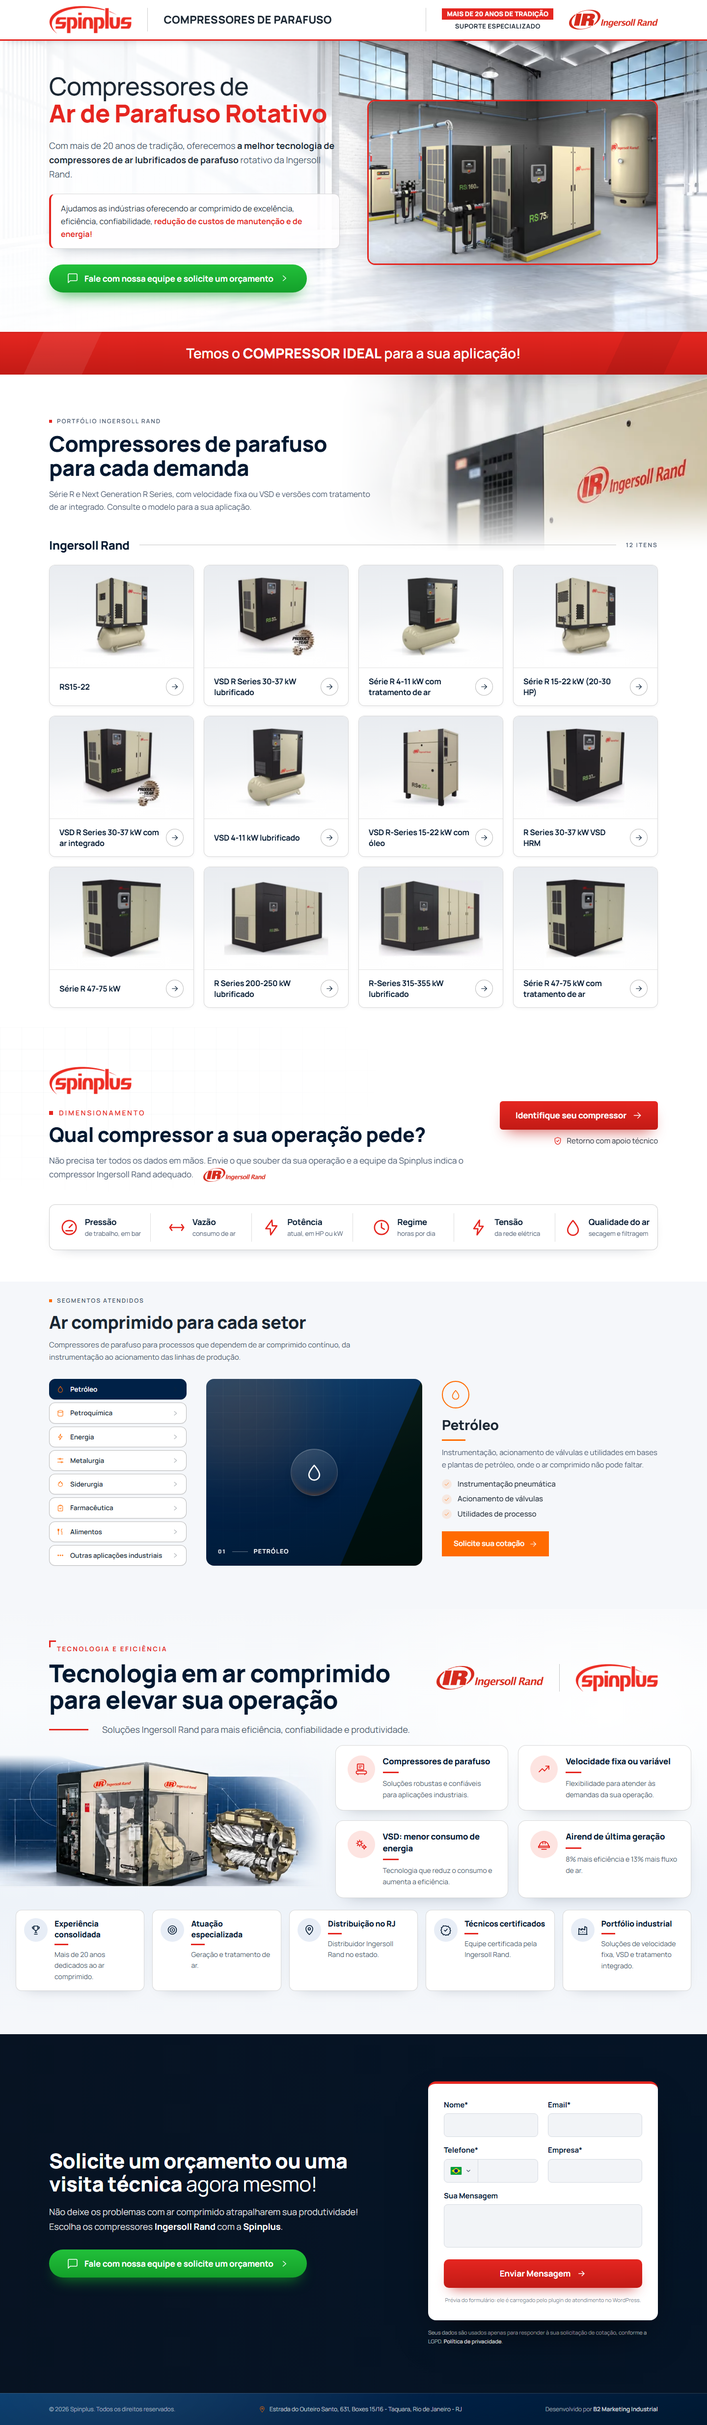
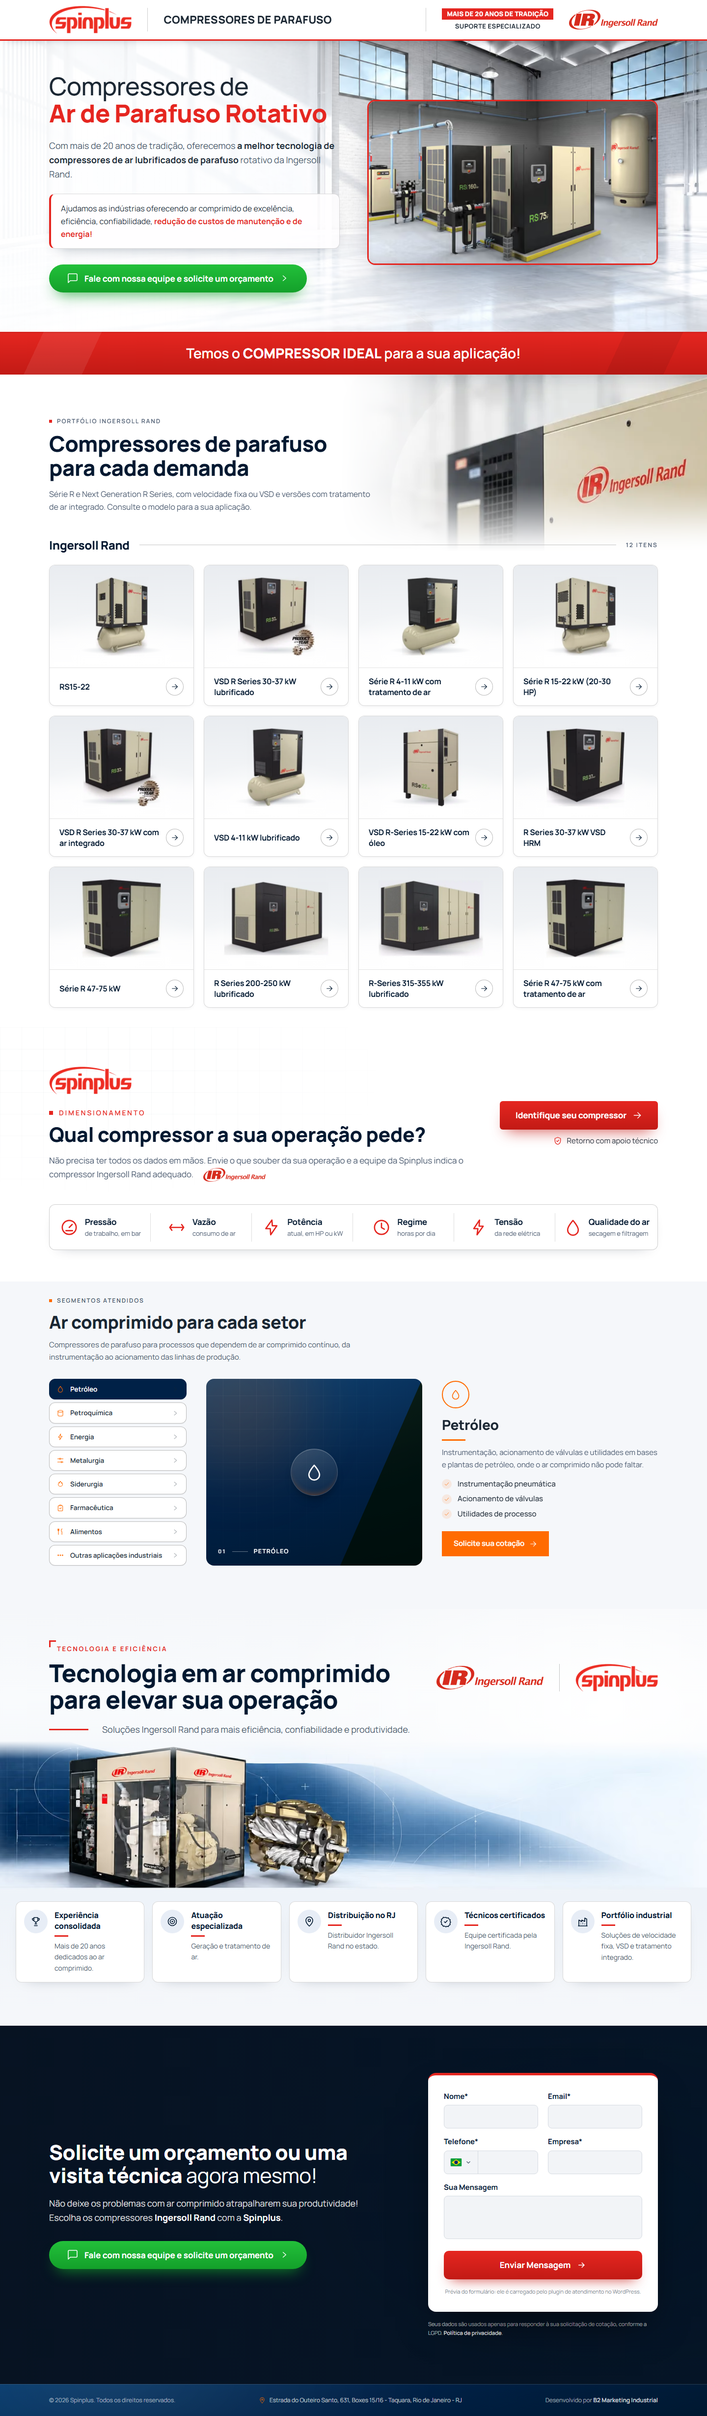
feat: diferenciais com faixa larga do compressor, sem os cards de tecnologia
Segunda versão do modelo do cliente: fundo técnico atravessando a seção, compressor aberto e airend à esquerda, 5 diferenciais na base.

diff --git a/src/data/sections/diferenciais.ts b/src/data/sections/diferenciais.ts
@@ -2,9 +2,8 @@
  * Dados da seção "Diferenciais" (biblioteca B2, fase: autoridade).
  *
  * Spinplus: layout aprovado pelo cliente em 15/10/2026 — título de tecnologia com as
- * duas marcas, visual do compressor aberto com o airend, 4 cards de tecnologia
- * (clicáveis, abrem o atendimento) e os 5 diferenciais do briefing na base. São 5
- * exatos: o grid é `lg:grid-cols-5`.
+ * duas marcas, faixa larga com o compressor aberto e o airend sobre fundo técnico, e
+ * os 5 diferenciais do briefing na base. São 5 exatos: o grid é `xl:grid-cols-5`.
  */
 import type { IconName } from '@data/icons'
 import type { Photo } from '@data/types'
@@ -18,11 +17,6 @@ export interface Reason {
   description: string
 }
 
-export interface Feature extends Reason {
-  /** Vira o `data-cta` do card: `diferenciais-{id}`. */
-  id: string
-}
-
 export const why = {
   eyebrow: 'Tecnologia e eficiência',
   /** Cada item é uma linha do H2 (quebra forçada no desktop). */
@@ -32,32 +26,6 @@ export const why = {
     src: visual,
     alt: 'Compressor de parafuso Ingersoll Rand aberto ao lado de um airend em corte, com os rotores à mostra',
   },
-  features: [
-    {
-      id: 'parafuso',
-      icon: 'compressor',
-      title: 'Compressores de parafuso',
-      description: 'Soluções robustas e confiáveis para aplicações industriais.',
-    },
-    {
-      id: 'velocidade',
-      icon: 'trend-up',
-      title: 'Velocidade fixa ou variável',
-      description: 'Flexibilidade para atender às demandas da sua operação.',
-    },
-    {
-      id: 'vsd',
-      icon: 'gears',
-      title: 'VSD: menor consumo de energia',
-      description: 'Tecnologia que reduz o consumo e aumenta a eficiência.',
-    },
-    {
-      id: 'airend',
-      icon: 'hard-hat',
-      title: 'Airend de última geração',
-      description: '8% mais eficiência e 13% mais fluxo de ar.',
-    },
-  ],
   reasons: [
     {
       icon: 'trophy',
@@ -90,6 +58,5 @@ export const why = {
   titleLines: readonly string[]
   text: string
   visual: Photo
-  features: readonly [Feature, Feature, Feature, Feature]
   reasons: readonly [Reason, Reason, Reason, Reason, Reason]
 }

diff --git a/src/data/icons.ts b/src/data/icons.ts
@@ -48,15 +48,6 @@ export const iconPaths = {
   wrench:
     '<path d="M14.7 6.3a4.5 4.5 0 0 0-6 5.3L3.5 16.8l3.2 3.2 5.2-5.2a4.5 4.5 0 0 0 5.3-6l-2.9 2.9-2.4-.6-.6-2.4 2.9-2.9Z"/>',
   clock: '<circle cx="12" cy="12" r="8.5"/><path d="M12 7v5.2l3.5 2"/>',
-  /** Compressor de parafuso: gabinete com painel (Spinplus, diferenciais). */
-  compressor:
-    '<rect x="5" y="3" width="11" height="10" rx="1"/><path d="M8 6.5h5M8 9.5h3"/><rect x="3" y="15" width="18" height="5" rx="2.5"/><path d="M6 20v1.5M18 20v1.5"/>',
-  /** Engrenagens: acionamento VSD (Spinplus, diferenciais). */
-  gears:
-    '<circle cx="9" cy="10" r="3"/><path d="M9 4.5v1.6M9 13.9v1.6M3.5 10h1.6M12.9 10h1.6M5.1 6.1l1.1 1.1M11.8 12.8l1.1 1.1M5.1 13.9l1.1-1.1M11.8 7.2l1.1-1.1"/><circle cx="17" cy="16.5" r="2"/><path d="M17 12.8v1.2M17 19v1.2M13.3 16.5h1.2M19.5 16.5h1.2"/>',
-  /** Capacete de técnico (Spinplus, diferenciais). */
-  'hard-hat':
-    '<path d="M4 15a8 8 0 0 1 16 0"/><path d="M2.5 15h19v2.5h-19z"/><path d="M10 7.2V11M14 7.2V11"/><path d="M8 20.5h8"/>',
   /** Troféu: experiência consolidada (Spinplus, diferenciais). */
   trophy:
     '<path d="M8 4h8v5a4 4 0 0 1-8 0V4Z"/><path d="M8 6H5a3 3 0 0 0 3 4M16 6h3a3 3 0 0 1-3 4"/><path d="M12 13v4M9 20.5h6M10 17h4"/>',

diff --git a/docs/BRIEFING.md b/docs/BRIEFING.md
@@ -142,33 +142,33 @@ Aprovada pelo usuário em 15/10/2026 com a opção "inferir e publicar": Apoio e
 | Fundo do hero   | `src/assets/hero-fundo.jpg` | confirmado | galpão claro com janelas enviado pelo usuário em 15/10/2026 (1870×841), sob véu branco à esquerda   |
 | Logos de marcas | —                           | removido   | entrada 7: só o nome                                                                                |
 
-| Asset                             | Arquivo                                            | Status     | Observação                                                                                                                                  |
-| --------------------------------- | -------------------------------------------------- | ---------- | ------------------------------------------------------------------------------------------------------------------------------------------- |
-| Fotos da vitrine                  | `src/assets/vitrine/produto-01…12.jpg`             | confirmado | links do briefing; originais 300×300                                                                                                        |
-| Visual dos diferenciais           | `src/assets/diferenciais/tecnologia-ingersoll.jpg` | provisório | compressor aberto + airend em corte, recortado do modelo de layout enviado pelo usuário (1024×420); trocar pelo original em alta, se houver |
-| Destaque da vitrine               | `src/assets/vitrine/destaque-ingersoll.jpg`        | provisório | recortado do modelo de layout enviado pelo usuário (716×300); trocar pelo arquivo original em alta, se houver                               |
-| Desenho técnico (dimensionamento) | `src/assets/identificar/esboco-sala.png`           | confirmado | gerado por detecção de bordas da foto da sala de compressores (`heroBg.png`), 1600×750                                                      |
+| Asset                             | Arquivo                                            | Status     | Observação                                                                                                                                                                |
+| --------------------------------- | -------------------------------------------------- | ---------- | ------------------------------------------------------------------------------------------------------------------------------------------------------------------------- |
+| Fotos da vitrine                  | `src/assets/vitrine/produto-01…12.jpg`             | confirmado | links do briefing; originais 300×300                                                                                                                                      |
+| Visual dos diferenciais           | `src/assets/diferenciais/tecnologia-ingersoll.jpg` | provisório | faixa com compressor aberto + airend em corte sobre fundo técnico, recortada do modelo de layout enviado pelo usuário (1983×416); trocar pelo original em alta, se houver |
+| Destaque da vitrine               | `src/assets/vitrine/destaque-ingersoll.jpg`        | provisório | recortado do modelo de layout enviado pelo usuário (716×300); trocar pelo arquivo original em alta, se houver                                                             |
+| Desenho técnico (dimensionamento) | `src/assets/identificar/esboco-sala.png`           | confirmado | gerado por detecção de bordas da foto da sala de compressores (`heroBg.png`), 1600×750                                                                                    |
 
 ## Desvios do padrão
 
 Aprovados pelo usuário em 15/10/2026, a partir do modelo de layout que enviou para o topo da página.
 
-| Peça            | O que muda em relação ao padrão B2                                                                                                                                                                                                                                                                                                                 | Consequência                                                                                                                                                                                                                                                     |
-| --------------- | -------------------------------------------------------------------------------------------------------------------------------------------------------------------------------------------------------------------------------------------------------------------------------------------------------------------------------------------------- | ---------------------------------------------------------------------------------------------------------------------------------------------------------------------------------------------------------------------------------------------------------------- |
-| Header          | fundo branco com filete vermelho, logo sem placa pendurada, selo "Mais de 20 anos de tradição / Suporte especializado" e logo Ingersoll Rand; **sem botão de cotação**                                                                                                                                                                             | some o CTA `header-cta`; o CTA do hero fica logo abaixo                                                                                                                                                                                                          |
-| Hero            | claro, duas colunas (texto + foto emoldurada), H1 "Compressores de Ar de Parafuso Rotativo", botão verde, faixa vermelha "Temos o COMPRESSOR IDEAL para a sua aplicação!"; **sem coluna de chat**                                                                                                                                                  | o shortcode do chat não aparece no hero; atendimento pelo botão `btn-slave-whats` (`hero-primary`)                                                                                                                                                               |
-| Copy            | CTA e textos do material antigo do cliente ("Fale com nossa equipe…", "a melhor tecnologia…")                                                                                                                                                                                                                                                      | o briefing recomendava não reaproveitá-los; prevalece o pedido do cliente                                                                                                                                                                                        |
-| Cores           | vermelho da marca (`brand-red` #e52620) e verde do botão (`cta-green`) no header e no hero                                                                                                                                                                                                                                                         | o restante da página segue com o laranja do padrão                                                                                                                                                                                                               |
-| Verificação     | `scripts/check-lp.mjs` (A8 e especificação de LOGO/heroBg) passa a conferir as assinaturas desta versão                                                                                                                                                                                                                                            | o CI continua bloqueando alteração acidental de Header e Hero                                                                                                                                                                                                    |
-| Fonte           | Manrope servida pela própria página (`src/styles/fonts/`, pré-carregada no Layout) em vez do Google Fonts                                                                                                                                                                                                                                          | sem troca de fonte após a primeira pintura: CLS 0 (antes 0,18 no Lighthouse do CI)                                                                                                                                                                               |
-| Vitrine         | layout do cliente: foto em close no canto (desktop), título em duas linhas, marcador e detalhes em vermelho, linha no cabeçalho da prateleira, cards com palco de estúdio e produtos maiores                                                                                                                                                       | `ProductShowcase.astro` editado na LP: **`npm run compose` o sobrescreve** com o da biblioteca — restaurar pelo git depois de recompor                                                                                                                           |
-| Cotação         | faixa escura com a foto da sala de compressores; "Solicite um orçamento ou uma visita técnica agora mesmo!", texto e botão verde (`cotacao-primary`) à esquerda; formulário num card branco com filete vermelho à direita; **sem os 3 selos e sem o botão "Chamar no WhatsApp"**                                                                   | o CTA `cotacao-whatsapp` virou `cotacao-primary` (atualizar no GTM). O formulário segue sendo o shortcode do plugin, com campos estilizados; onde o plugin não roda (Vercel) aparece uma prévia visual com aviso, sem campos de verdade                          |
-| Dimensionamento | seção clara em vez do painel navy: desenho técnico da sala à direita, logo Spinplus, marcador e "DIMENSIONAMENTO" em vermelho, logo Ingersoll Rand ao lado do texto, botão vermelho e faixa branca com os 6 dados (ícone `gauge` acrescentado ao catálogo para Pressão)                                                                            | a página fica com um só bloco navy no miolo (Diferenciais); o `check:lp` não acusa porque lê o manifesto. `SupportPanel.astro` editado na LP: **`npm run compose` o sobrescreve** — restaurar pelo git                                                           |
-| Diferenciais    | seção clara: "Tecnologia em ar comprimido para elevar sua operação" com as logos Ingersoll Rand e Spinplus, visual do compressor aberto com o airend sangrando à esquerda, 4 cards de tecnologia clicáveis e os 5 diferenciais na base (textos ajustados ao modelo); ícones `compressor`, `gears`, `hard-hat` e `trophy` acrescentados ao catálogo | deixa de ser bloco navy: a página não tem mais bloco navy no miolo. O CTA `diferenciais-cta` virou `diferenciais-{id}` nos 4 cards (`lp.manifest.json` ajustado à mão). `WhyBrand.astro` editado na LP: **`npm run compose` o sobrescreve** — restaurar pelo git |
+| Peça            | O que muda em relação ao padrão B2                                                                                                                                                                                                                                                                                                                              | Consequência                                                                                                                                                                                                                                                      |
+| --------------- | --------------------------------------------------------------------------------------------------------------------------------------------------------------------------------------------------------------------------------------------------------------------------------------------------------------------------------------------------------------- | ----------------------------------------------------------------------------------------------------------------------------------------------------------------------------------------------------------------------------------------------------------------- |
+| Header          | fundo branco com filete vermelho, logo sem placa pendurada, selo "Mais de 20 anos de tradição / Suporte especializado" e logo Ingersoll Rand; **sem botão de cotação**                                                                                                                                                                                          | some o CTA `header-cta`; o CTA do hero fica logo abaixo                                                                                                                                                                                                           |
+| Hero            | claro, duas colunas (texto + foto emoldurada), H1 "Compressores de Ar de Parafuso Rotativo", botão verde, faixa vermelha "Temos o COMPRESSOR IDEAL para a sua aplicação!"; **sem coluna de chat**                                                                                                                                                               | o shortcode do chat não aparece no hero; atendimento pelo botão `btn-slave-whats` (`hero-primary`)                                                                                                                                                                |
+| Copy            | CTA e textos do material antigo do cliente ("Fale com nossa equipe…", "a melhor tecnologia…")                                                                                                                                                                                                                                                                   | o briefing recomendava não reaproveitá-los; prevalece o pedido do cliente                                                                                                                                                                                         |
+| Cores           | vermelho da marca (`brand-red` #e52620) e verde do botão (`cta-green`) no header e no hero                                                                                                                                                                                                                                                                      | o restante da página segue com o laranja do padrão                                                                                                                                                                                                                |
+| Verificação     | `scripts/check-lp.mjs` (A8 e especificação de LOGO/heroBg) passa a conferir as assinaturas desta versão                                                                                                                                                                                                                                                         | o CI continua bloqueando alteração acidental de Header e Hero                                                                                                                                                                                                     |
+| Fonte           | Manrope servida pela própria página (`src/styles/fonts/`, pré-carregada no Layout) em vez do Google Fonts                                                                                                                                                                                                                                                       | sem troca de fonte após a primeira pintura: CLS 0 (antes 0,18 no Lighthouse do CI)                                                                                                                                                                                |
+| Vitrine         | layout do cliente: foto em close no canto (desktop), título em duas linhas, marcador e detalhes em vermelho, linha no cabeçalho da prateleira, cards com palco de estúdio e produtos maiores                                                                                                                                                                    | `ProductShowcase.astro` editado na LP: **`npm run compose` o sobrescreve** com o da biblioteca — restaurar pelo git depois de recompor                                                                                                                            |
+| Cotação         | faixa escura com a foto da sala de compressores; "Solicite um orçamento ou uma visita técnica agora mesmo!", texto e botão verde (`cotacao-primary`) à esquerda; formulário num card branco com filete vermelho à direita; **sem os 3 selos e sem o botão "Chamar no WhatsApp"**                                                                                | o CTA `cotacao-whatsapp` virou `cotacao-primary` (atualizar no GTM). O formulário segue sendo o shortcode do plugin, com campos estilizados; onde o plugin não roda (Vercel) aparece uma prévia visual com aviso, sem campos de verdade                           |
+| Dimensionamento | seção clara em vez do painel navy: desenho técnico da sala à direita, logo Spinplus, marcador e "DIMENSIONAMENTO" em vermelho, logo Ingersoll Rand ao lado do texto, botão vermelho e faixa branca com os 6 dados (ícone `gauge` acrescentado ao catálogo para Pressão)                                                                                         | a página fica com um só bloco navy no miolo (Diferenciais); o `check:lp` não acusa porque lê o manifesto. `SupportPanel.astro` editado na LP: **`npm run compose` o sobrescreve** — restaurar pelo git                                                            |
+| Diferenciais    | seção clara: "Tecnologia em ar comprimido para elevar sua operação" com as logos Ingersoll Rand e Spinplus, faixa larga com o compressor aberto e o airend sobre fundo técnico, e os 5 diferenciais na base (textos ajustados ao modelo); ícone `trophy` acrescentado ao catálogo. Os 4 cards de tecnologia (com o "8%/13%") saíram na segunda versão do modelo | deixa de ser bloco navy: a página não tem mais bloco navy no miolo. **Sem CTA próprio** (a Cotação vem logo depois): `ctas` da seção zerado à mão no `lp.manifest.json`. `WhyBrand.astro` editado na LP: **`npm run compose` o sobrescreve** — restaurar pelo git |
 
 ## Pendências para o cliente
 
-1. Confirmar a base do "8% mais eficiência e 13% mais fluxo de ar" (card Airend de última geração): modelo e comparação. O briefing pedia isso antes de publicar; entrou a pedido do usuário em 15/10/2026.
+1. Foto ou ilustração original do compressor aberto com o airend (hoje recortada do modelo de layout).
 2. Versão do logo Ingersoll Rand fornecida pelo cliente, se preferirem a oficial à do Wikimedia.
 3. Validar os 6 dados de dimensionamento e os textos dos 7 setores.
 4. Confirmar se A02/A05 e A09/A12 são equipamentos distintos (mesma foto) e enviar ficha por modelo (HP, kW, vazão, pressão), que abriria a tabela técnica para as buscas de 20/30/40/50 HP.
